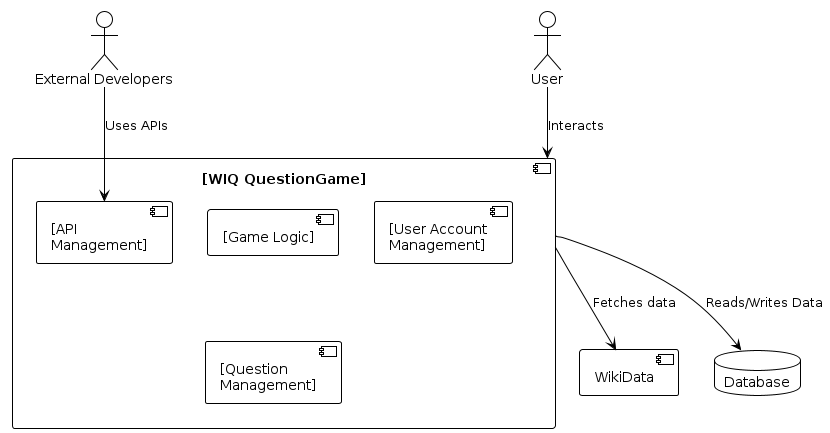
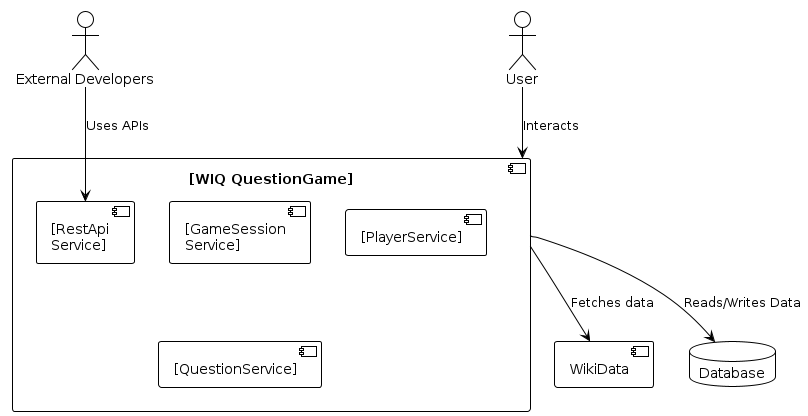
Updates

diff --git a/index.html b/index.html
@@ -886,7 +886,7 @@ System will allow accessing user information and the information of the generate
 </div>
 <div class="imageblock">
 <div class="content">
-<img src="./images/Whitebox-overall.png" alt="Whitebox overall" width="830" height="433">
+<img src="./images/Whitebox-overall.png" alt="Whitebox overall" width="808" height="416">
 </div>
 </div>
 <div class="sect3">
@@ -941,22 +941,22 @@ System will allow accessing user information and the information of the generate
 <div class="ulist">
 <ul>
 <li>
-<p><strong>Game Logic:</strong> This component acts as the core of the QuestionGame, orchestrating the flow of games, managing question selection, enforcing game rules, and tracking scores. It ensures that gameplay proceeds smoothly and according to the predefined logic, offering a seamless experience for the user.</p>
+<p><strong>GameService:</strong> This component acts as the core of the QuestionGame, orchestrating the flow of games, managing question selection, enforcing game rules, and tracking scores. It ensures that gameplay proceeds smoothly and according to the predefined logic, offering a seamless experience for the user.</p>
 </li>
 <li>
-<p><strong>User Account Management:</strong> Responsible for handling user accounts, this component manages registration, authentication, and profile management. It safeguards user data while providing a personalized experience through game history tracking and preference settings.</p>
+<p><strong>PlayerService:</strong> Responsible for handling user accounts, this component manages registration, authentication, and profile management. It safeguards user data while providing a personalized experience through game history tracking and preference settings.</p>
 </li>
 <li>
-<p><strong>Question Management:</strong> This component interacts directly with the Wikidata service to fetch data for question generation. It processes and curates content to produce relevant, challenging questions for the game, thereby ensuring a varied and educational experience.</p>
+<p><strong>QuestionService:</strong> This component interacts directly with the Wikidata service to fetch data for question generation. It processes and curates content to produce relevant, challenging questions for the game, thereby ensuring a varied and educational experience.</p>
 </li>
 <li>
-<p><strong>API Management:</strong> Serving as the gateway for external developers, this component exposes a set of RESTful APIs that allow access to player information and question data. It handles request processing, authentication, and data delivery, facilitating third-party integrations and extensions of the WIQ platform.</p>
+<p><strong>RestApiService:</strong> Serving as the gateway for external developers, this component exposes a set of RESTful APIs that allow access to player information and question data. It handles request processing, authentication, and data delivery, facilitating third-party integrations and extensions of the WIQ platform.</p>
 </li>
 </ul>
 </div>
 <div class="imageblock">
 <div class="content">
-<img src="./images/level2.png" alt="level2" width="432" height="534">
+<img src="./images/level2.png" alt="level2" width="432" height="517">
 </div>
 </div>
 </div>
@@ -1484,7 +1484,7 @@ Scalable solutions such as Docker containers allow the application to be deploye
 <div id="footer">
 <div id="footer-text">
 Version 2<br>
-Last updated 2024-04-24 10:27:58 UTC
+Last updated 2024-04-24 10:28:32 UTC
 </div>
 </div>
 </body>
